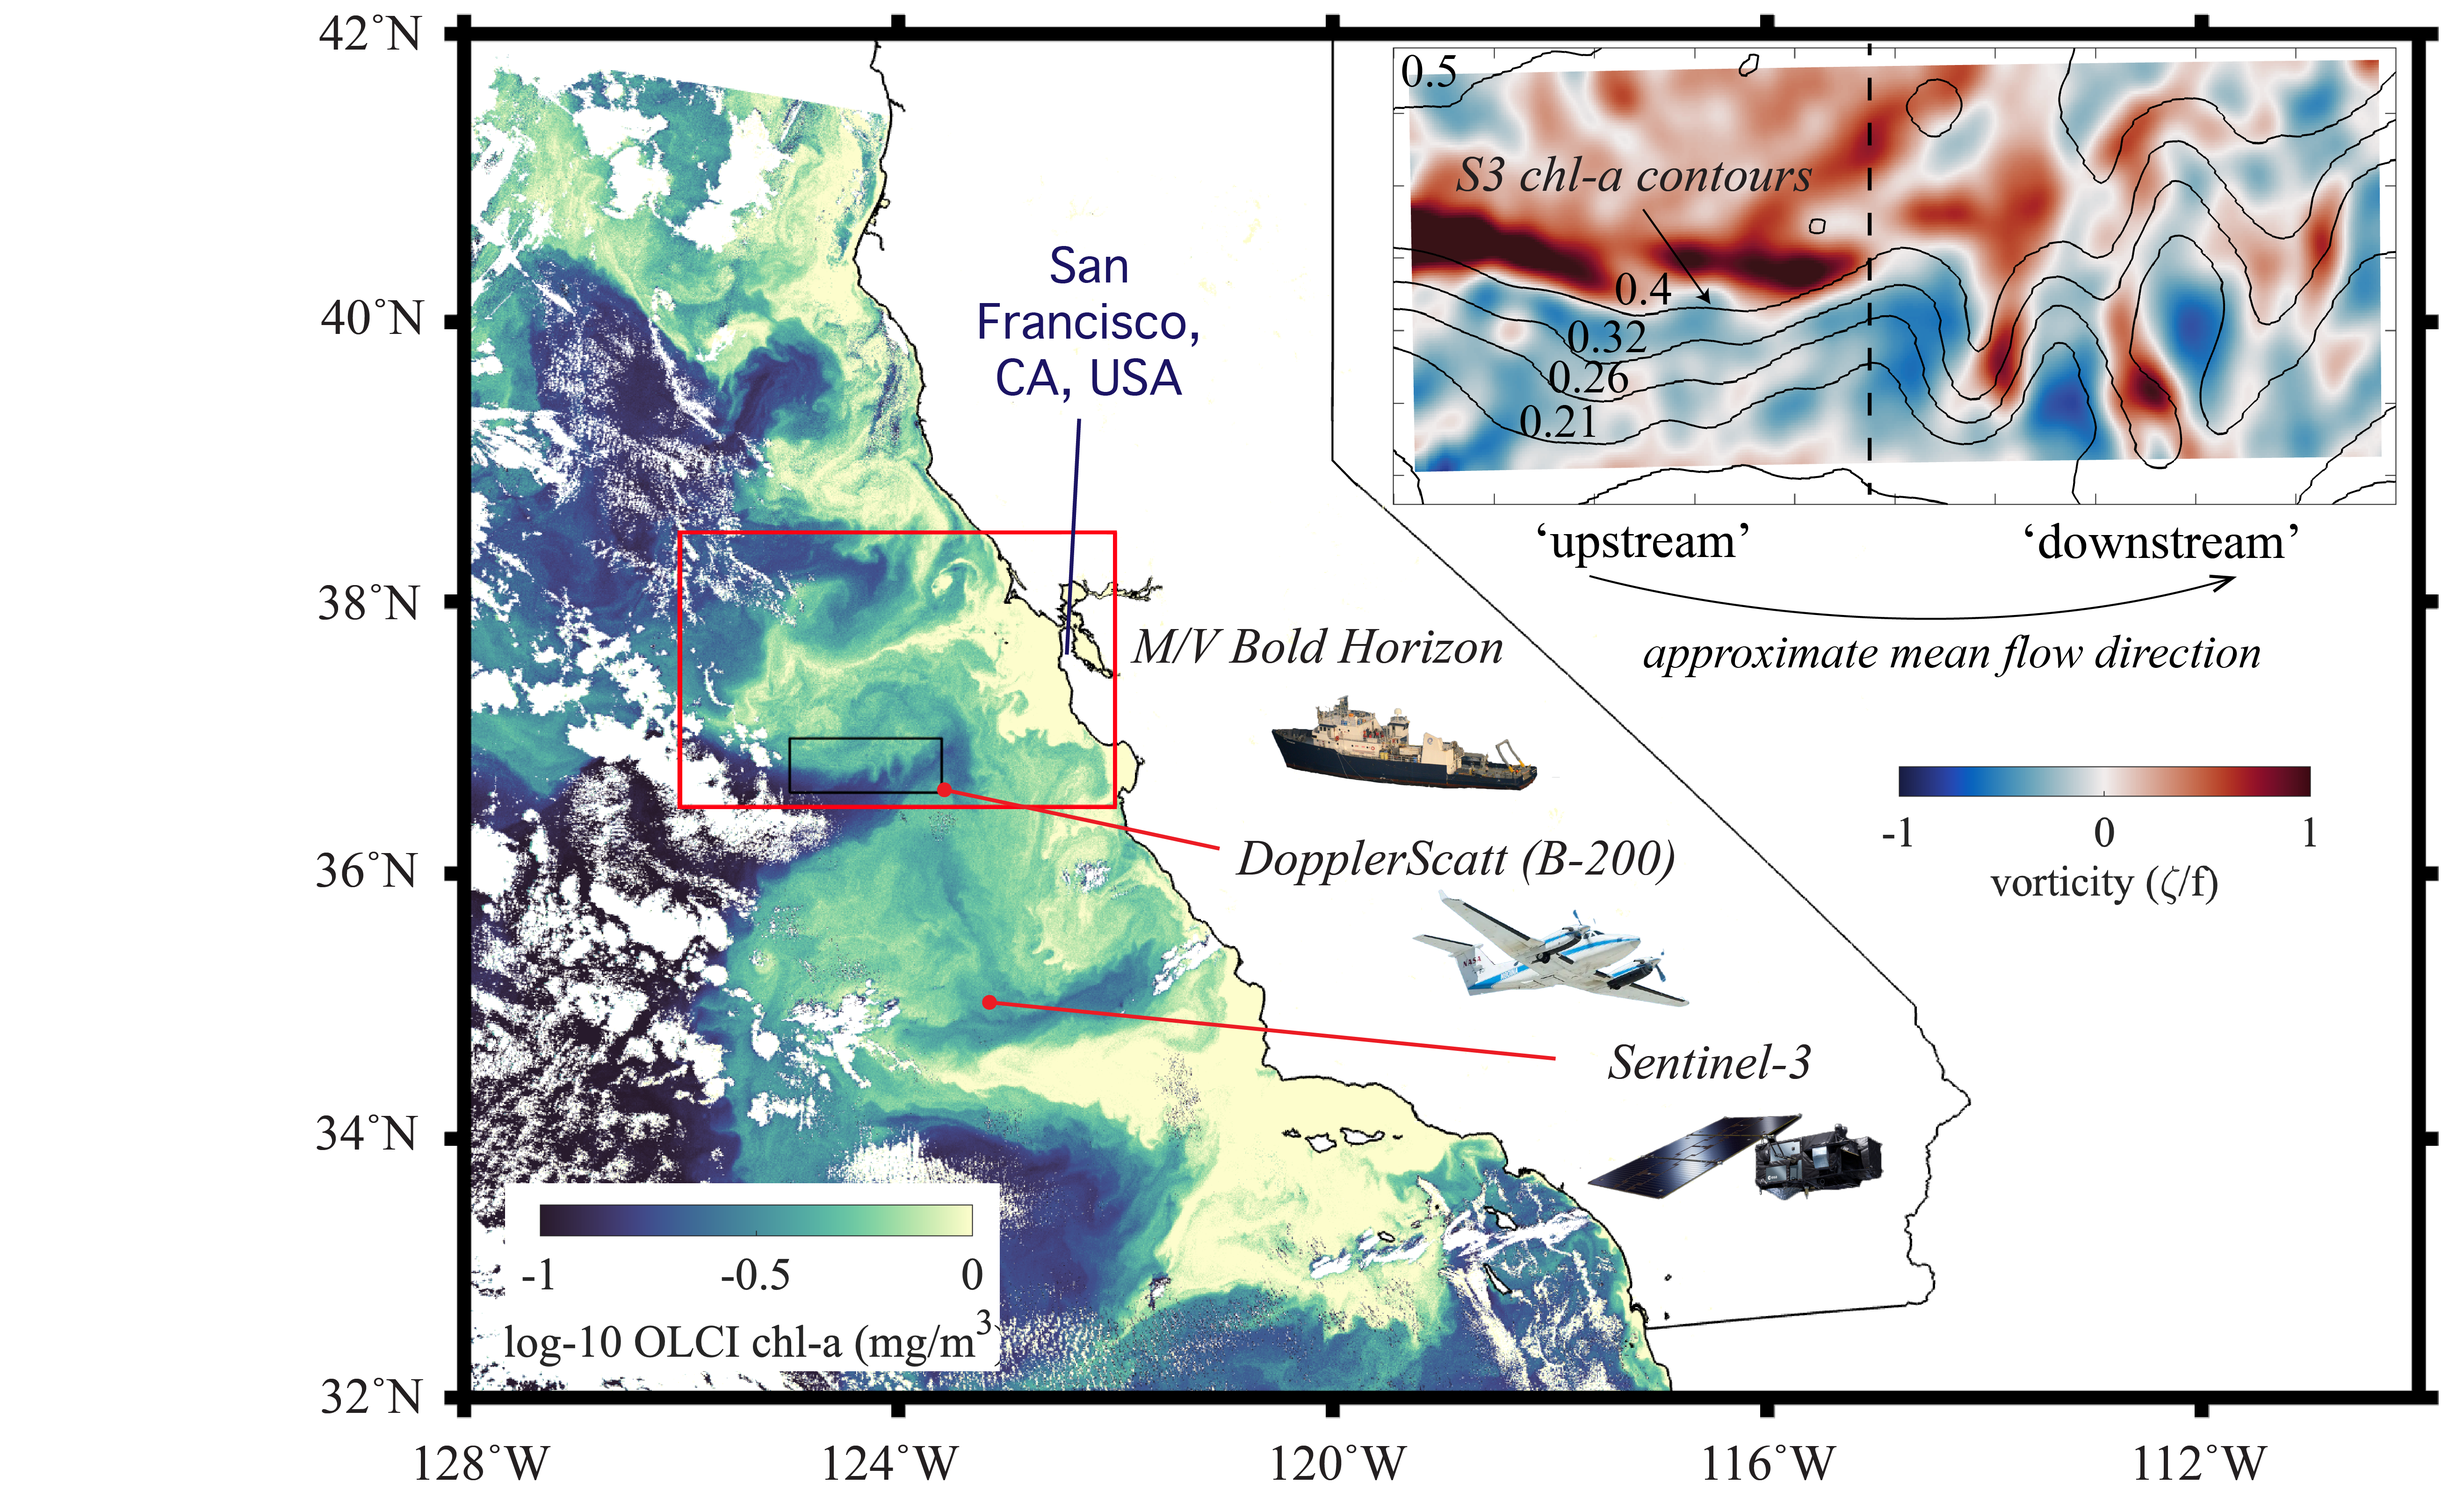
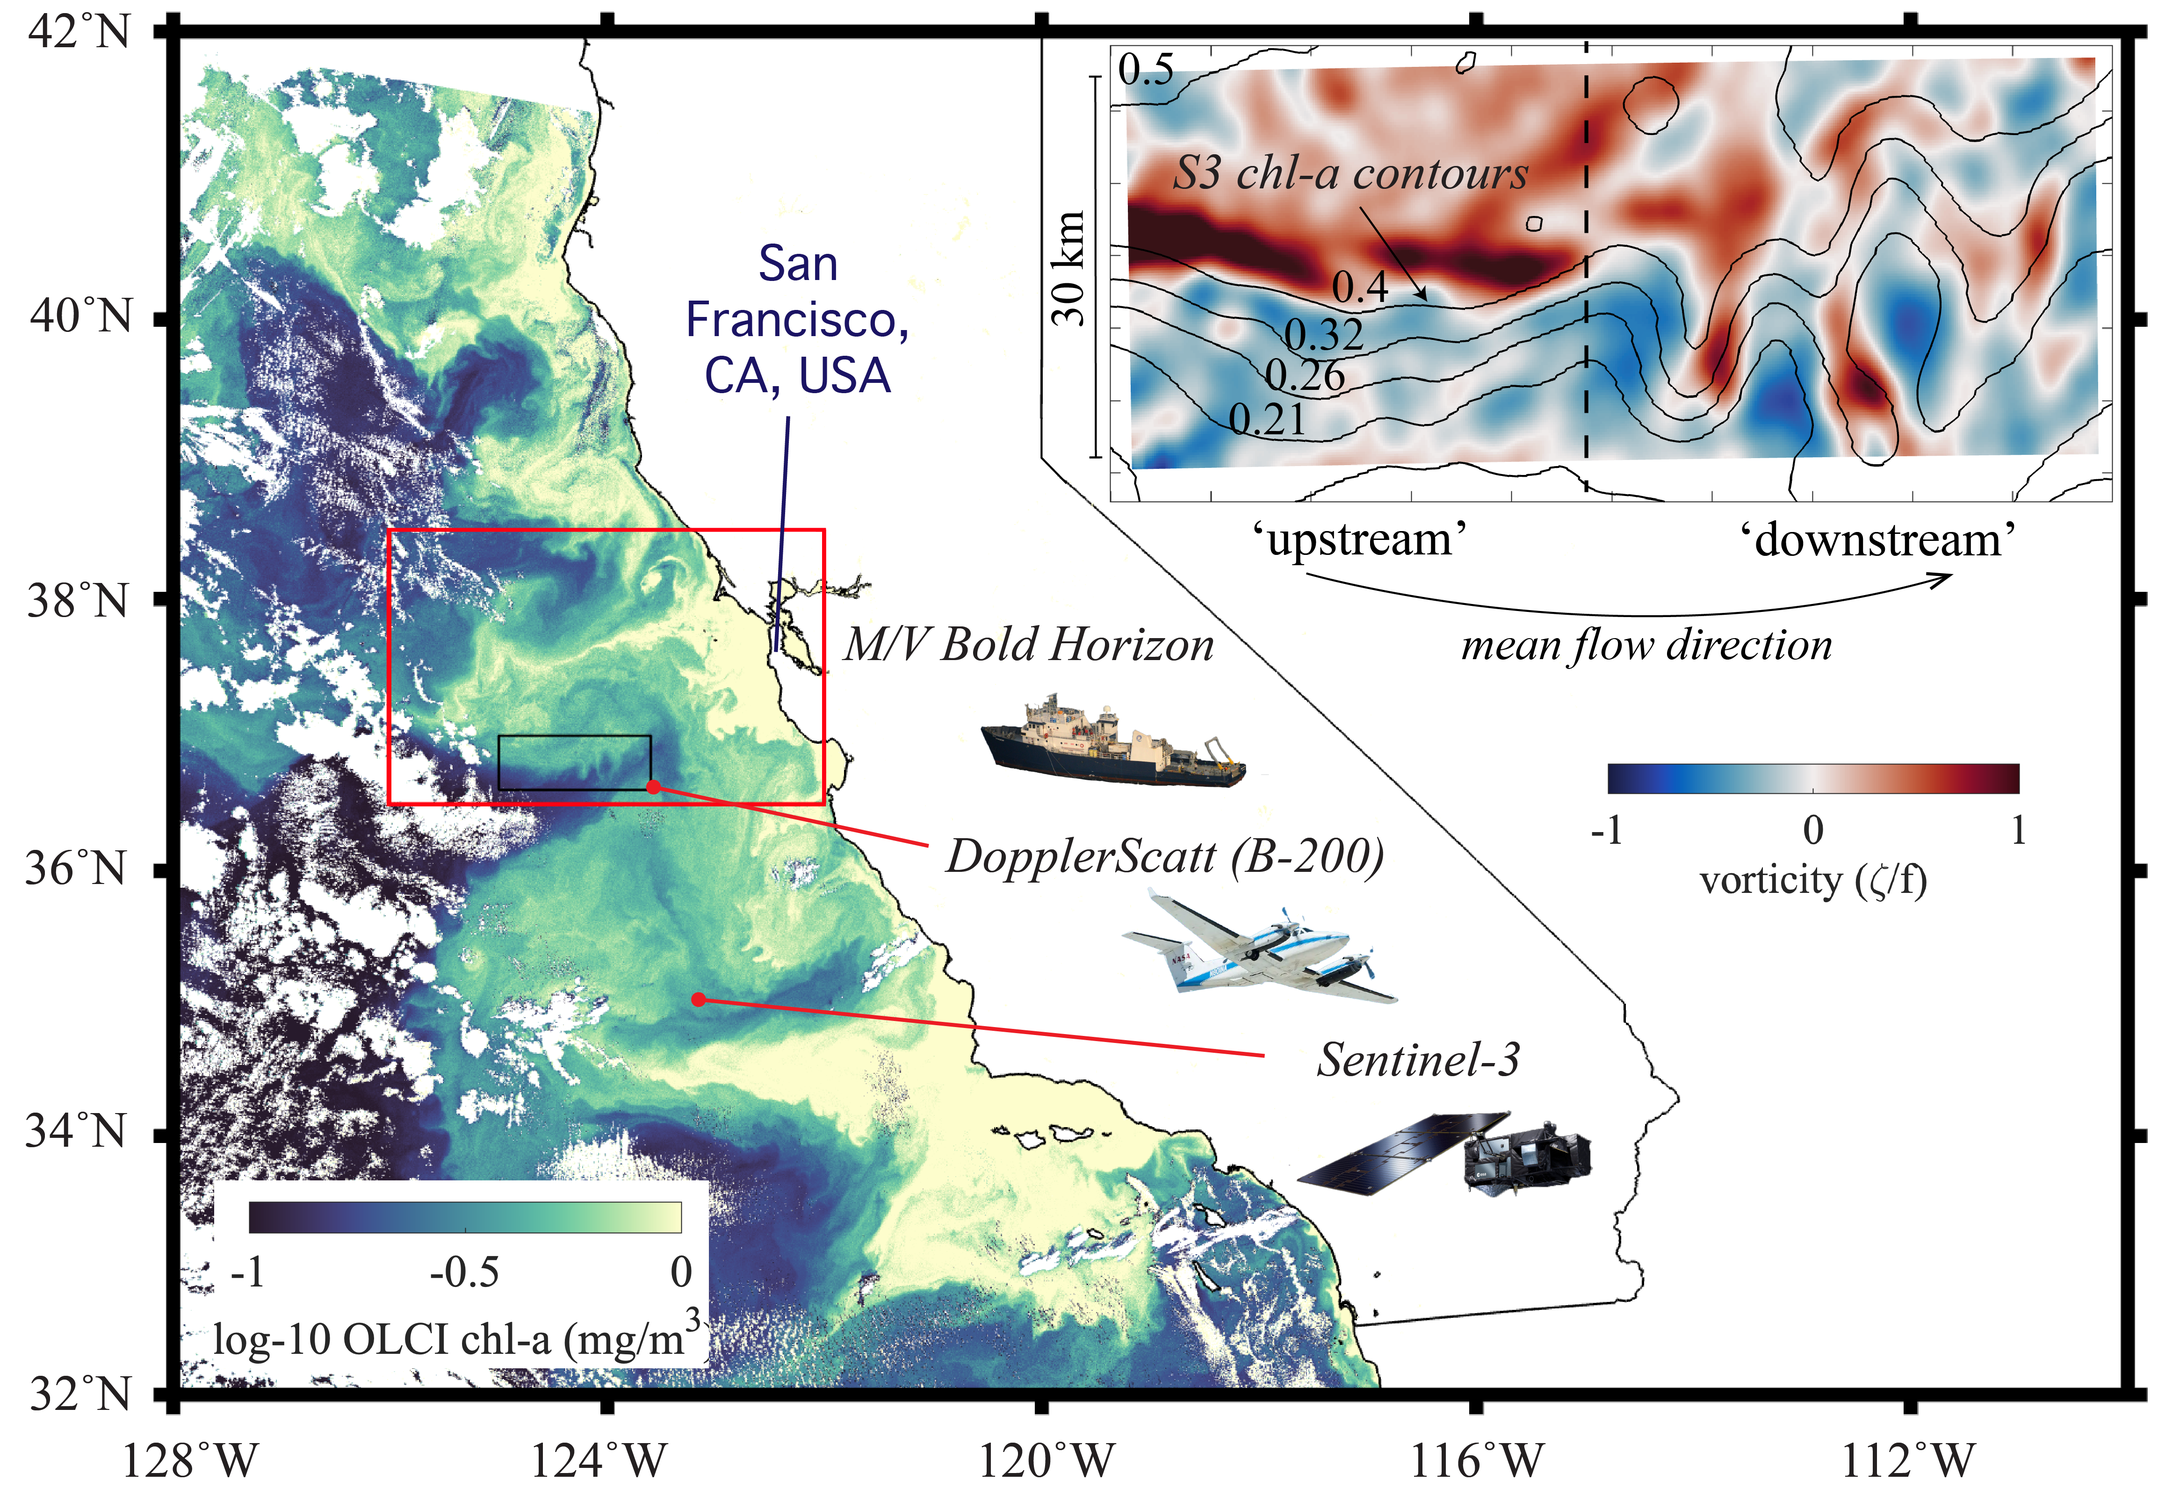
s

diff --git a/_projects/1_project.md b/_projects/1_project.md
@@ -2,12 +2,12 @@
 layout: page
 title: Estimating eddy-driven particulate organic carbon flux from remote sensing 
 description: at a dynamic upwelling front
-img: assets/img/climatology(1).png
+img: assets/img/chl_eddy.png
 importance: 1
 category: work
 related_publications: false
 ---
-Abstract: Modeling studies have shown that submesoscale (1-10 km) vertical velocities at fronts enhance the exchange of particulate organic carbon (POC) and heat between the surface ocean and depth. While POC and temperature can be readily assessed in situ, direct quantification of transport remain uncertain due to the observational challenges of measuring submesoscale vertical velocities in the upper ocean. NASA’s DopplerScatt is a novel airborne instrument that enables derivation of submesoscale vertical velocities from high resolution surface currents. Here, we provided novel estimates of eddy-driven subduction by pairing DopplerScatt-derived vertical velocities with POC estimates from satellite ocean color (Sentinel-3 OLCI) in a persistent upwelling frontal structure in the central California Current System. We documented the evolution of the frontal structure as it developed strong vertical velocities (O(100 m/day)) leading to a net POC flux of 30.6 ± 7.0 mg C m<sup>-2</sup> day<sup>-1</sup> downwards and a coincident upward vertical heat flux of 163.5 ± 36.0 W m<sup>-2</sup> (estimated using Sentinel-3 SLSTR sea surface temperature). Downward POC flux was associated with upward vertical heat flux (R<sup>2</sup> = 44%). Spatial distributions of fluxes, surface kinematics, and high resolution bio-optical and hydrographic profiles from the M/V Bold Horizon captured the underlying dynamics leading to vertical transport below the mixed layer. The front was characterized by two dynamical regimes, based on its characteristics in surface kinematics and frontal sharpness: 'upstream' and 'downstream.' In the earlier 'upstream' domain, where the front was sharper, large negative (positive) POC (vertical heat) fluxes occurred along the dense side of the front where positive vorticity and strain were enhanced. Here, vertical fluxes were associated along-isopycnal transport below the mixed layer induced by frontal overturning. The later stage of frontal evolution represented by the 'downstream' domain had patchier spatial distributions of fluxes enhanced in filaments and instabilities. One such filament developed strong positive vorticity, strain, and vertical velocities on super-inertial time scales and subducted 1300 mg C m<sup>-2</sup> daym<sup>-1</sup> below the shallow mixed layer. By providing novel estimates of eddy-subduction fluxes and characterizing the associated frontal evolution, this study contributes to the understanding of how submesoscale processes modify carbon export in the highly productive California Current System. This measurement approach can be expanded to other regions to further understand the influence of eddy-driven subduction on the marine carbon cycle.
+Abstract: Modeling studies have shown that submesoscale (1-10 km) vertical velocities at fronts enhance the exchange of particulate organic carbon (POC) and heat between the surface ocean and depth. While POC and temperature can be readily assessed in situ, direct quantification of transport remain uncertain due to the observational challenges of measuring submesoscale vertical velocities in the upper ocean. NASA’s DopplerScatt is a novel airborne instrument that enables derivation of submesoscale vertical velocities from high resolution surface currents. Here, we provided novel estimates of eddy-driven subduction by pairing DopplerScatt-derived vertical velocities with POC estimates from satellite ocean color (Sentinel-3 OLCI) in a persistent upwelling frontal structure in the central California Current System. We documented the evolution of the frontal structure as it developed strong vertical velocities (O(100 m/day)) leading to a net POC flux of 30.6 ± 7.0 mg C m<sup>-2</sup> day<sup>-1</sup> downwards and a coincident upward vertical heat flux of 163.5 ± 36.0 W m<sup>-2</sup> (estimated using Sentinel-3 SLSTR sea surface temperature). Downward POC flux was associated with upward vertical heat flux (R<sup>2</sup> = 44%). Spatial distributions of fluxes, surface kinematics, and high resolution bio-optical and hydrographic profiles from the M/V Bold Horizon captured the underlying dynamics leading to vertical transport below the mixed layer. The front was characterized by two dynamical regimes, based on its characteristics in surface kinematics and frontal sharpness: 'upstream' and 'downstream.' In the earlier 'upstream' domain, where the front was sharper, large negative (positive) POC (vertical heat) fluxes occurred along the dense side of the front where positive vorticity and strain were enhanced. Here, vertical fluxes were associated along-isopycnal transport below the mixed layer induced by frontal overturning. The later stage of frontal evolution represented by the 'downstream' domain had patchier spatial distributions of fluxes enhanced in filaments and instabilities. One such filament developed strong positive vorticity, strain, and vertical velocities on super-inertial time scales and subducted 1300 mg C m<sup>-2</sup> day m<sup>-1</sup> below the shallow mixed layer. By providing novel estimates of eddy-subduction fluxes and characterizing the associated frontal evolution, this study contributes to the understanding of how submesoscale processes modify carbon export in the highly productive California Current System. This measurement approach can be expanded to other regions to further understand the influence of eddy-driven subduction on the marine carbon cycle.
 
 
 <div class="row">
@@ -16,7 +16,7 @@ Abstract: Modeling studies have shown that submesoscale (1-10 km) vertical veloc
     </div>
 </div>
 <div class="caption">
-Log-10 chl-a from Sentinel-3 Ocean and Land Colour Instrument (OLCI, 0.3 km spatial resolution) in the study region off the coast of San Francisco, California. The black box represents the frontal domain of interest in this study, of which chl-a and SST fields are plotted in plotted in Fig. \ref{Fig:overview}e-l. The red box represents the area of the mesoscale field plotted in Fig. \ref{Fig:overview}a-d, which sets up the front of interest. Photos of the following measurement platforms used in this study: M/V Bold Horizon, DopplerScatt onboard the King Air B-200, and Sentinel-3. Vorticity derived from DopplerScatt surface currents with Sentinel-3 chl-a contour overlain in black (inset map). Numbers on contours are in units [mg m<sup>-3</sup>]. 'Upstream' domain represents an earlier stage of frontal evolution characterized by a sharper front and 'downstream' represents a later, more unstable, stage of frontal evolution characterized by instability and filament development. (Credits for three measurement platform photos: Alex Wineteer, Judy Alfter, European Space Agency)</div>
+Log-10 chl-a from Sentinel-3 Ocean and Land Colour Instrument (OLCI, 0.3 km spatial resolution) in the study region off the coast of San Francisco, California. The black box represents the frontal domain of interest in this study, of which chl-a and SST fields are plotted in plotted in figure below (e-l). The red box represents the area of the mesoscale field plotted in figure below (a-d), which sets up the front of interest. Photos of the following measurement platforms used in this study: M/V Bold Horizon, DopplerScatt onboard the King Air B-200, and Sentinel-3. Vorticity derived from DopplerScatt surface currents with Sentinel-3 chl-a contour overlain in black (inset map). Numbers on contours are in units [mg m<sup>-3</sup>]. 'Upstream' domain represents an earlier stage of frontal evolution characterized by a sharper front and 'downstream' represents a later, more unstable, stage of frontal evolution characterized by instability and filament development. (Credits for three measurement platform photos: Alex Wineteer, Judy Alfter, European Space Agency)</div>
 
 Text
 

diff --git a/_projects/3_project.md b/_projects/3_project.md
@@ -2,7 +2,18 @@
 layout: page
 title: GO-SWACE
 description: a project that redirects to another website
-img: assets/img/goswace
+img: assets/img/Edward.png
 importance: 3
 category: work
 ---
+
+{% if site.data.repositories.github_repos %}
+
+## GitHub Repositories
+
+<div class="repositories d-flex flex-wrap flex-md-row flex-column justify-content-between align-items-center">
+  {% for repo in site.data.repositories.github_repos %}
+    {% include repository/repo.liquid repository=repo %}
+  {% endfor %}
+</div>
+{% endif %}
